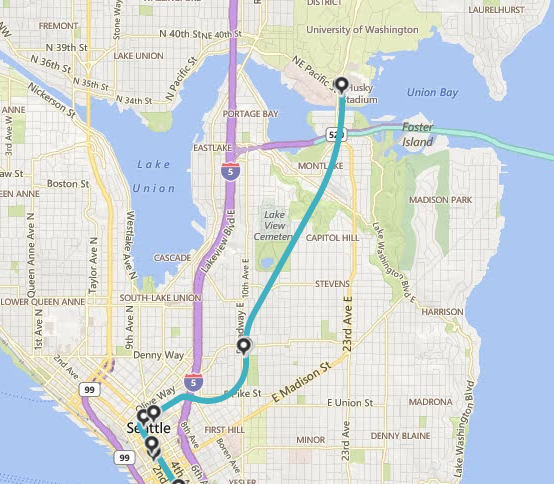
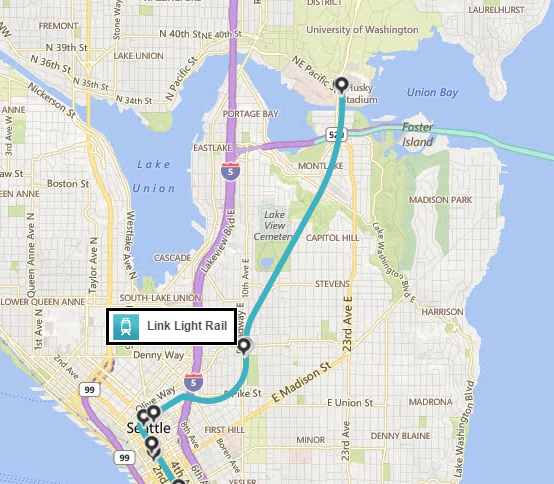
updated image and description for location

Changed region(s): [[0.1841, 0.6198, 0.4296, 0.7128]]

diff --git a/chru_dot_edu/chru_dot_edu/templates/contact.html b/chru_dot_edu/chru_dot_edu/templates/contact.html
@@ -31,7 +31,7 @@
 		<br>
 		<div class="col-lg-4 col-lg-offset-1">
 			<h3>Taking Link Light Rail</h3>
-			<p>The Link Light Rail is the fastest way to get to and from campus as shown in the nearby image.  For scheduling and coordinating with connecting buses we suggest using
+			<p>The Link Light Rail is the fastest way to get to and from campus and is shown in the nearby image.  For scheduling and coordinating with connecting buses we suggest using
 			<a href='http://onebusaway.org'>OneBusAway</a>.</p>
 			<br>
 			<h3>Taking the Bus</h3>
